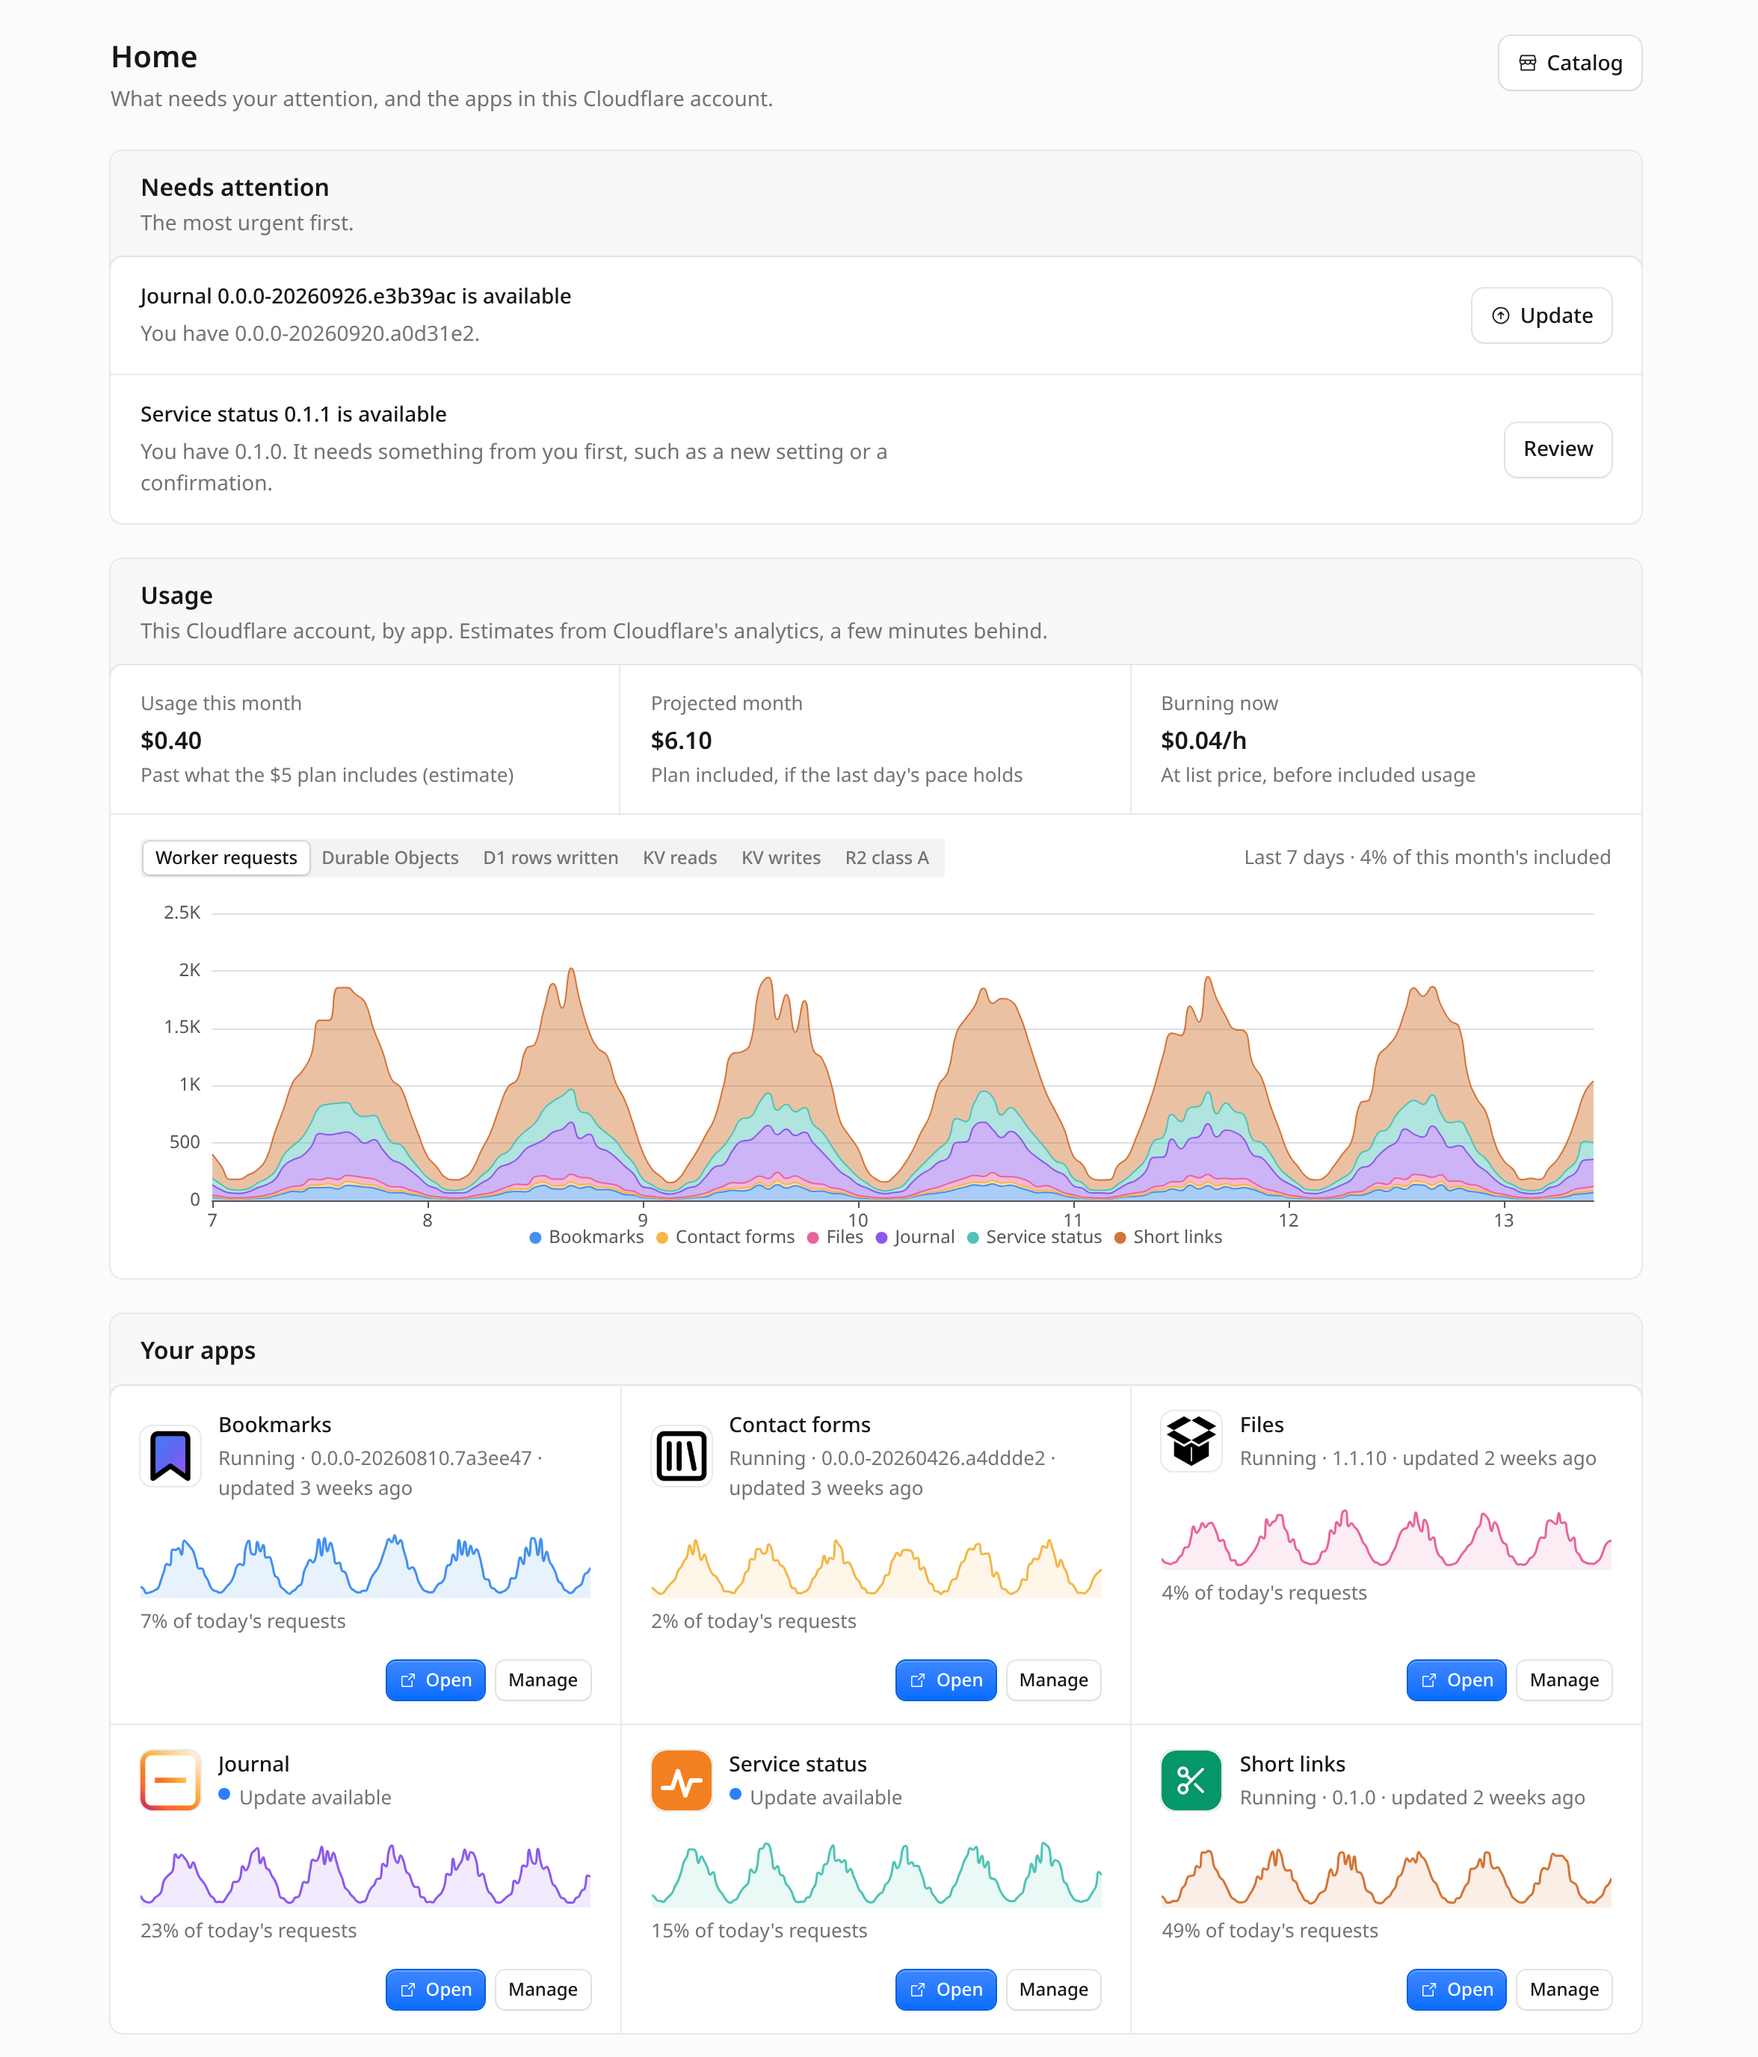
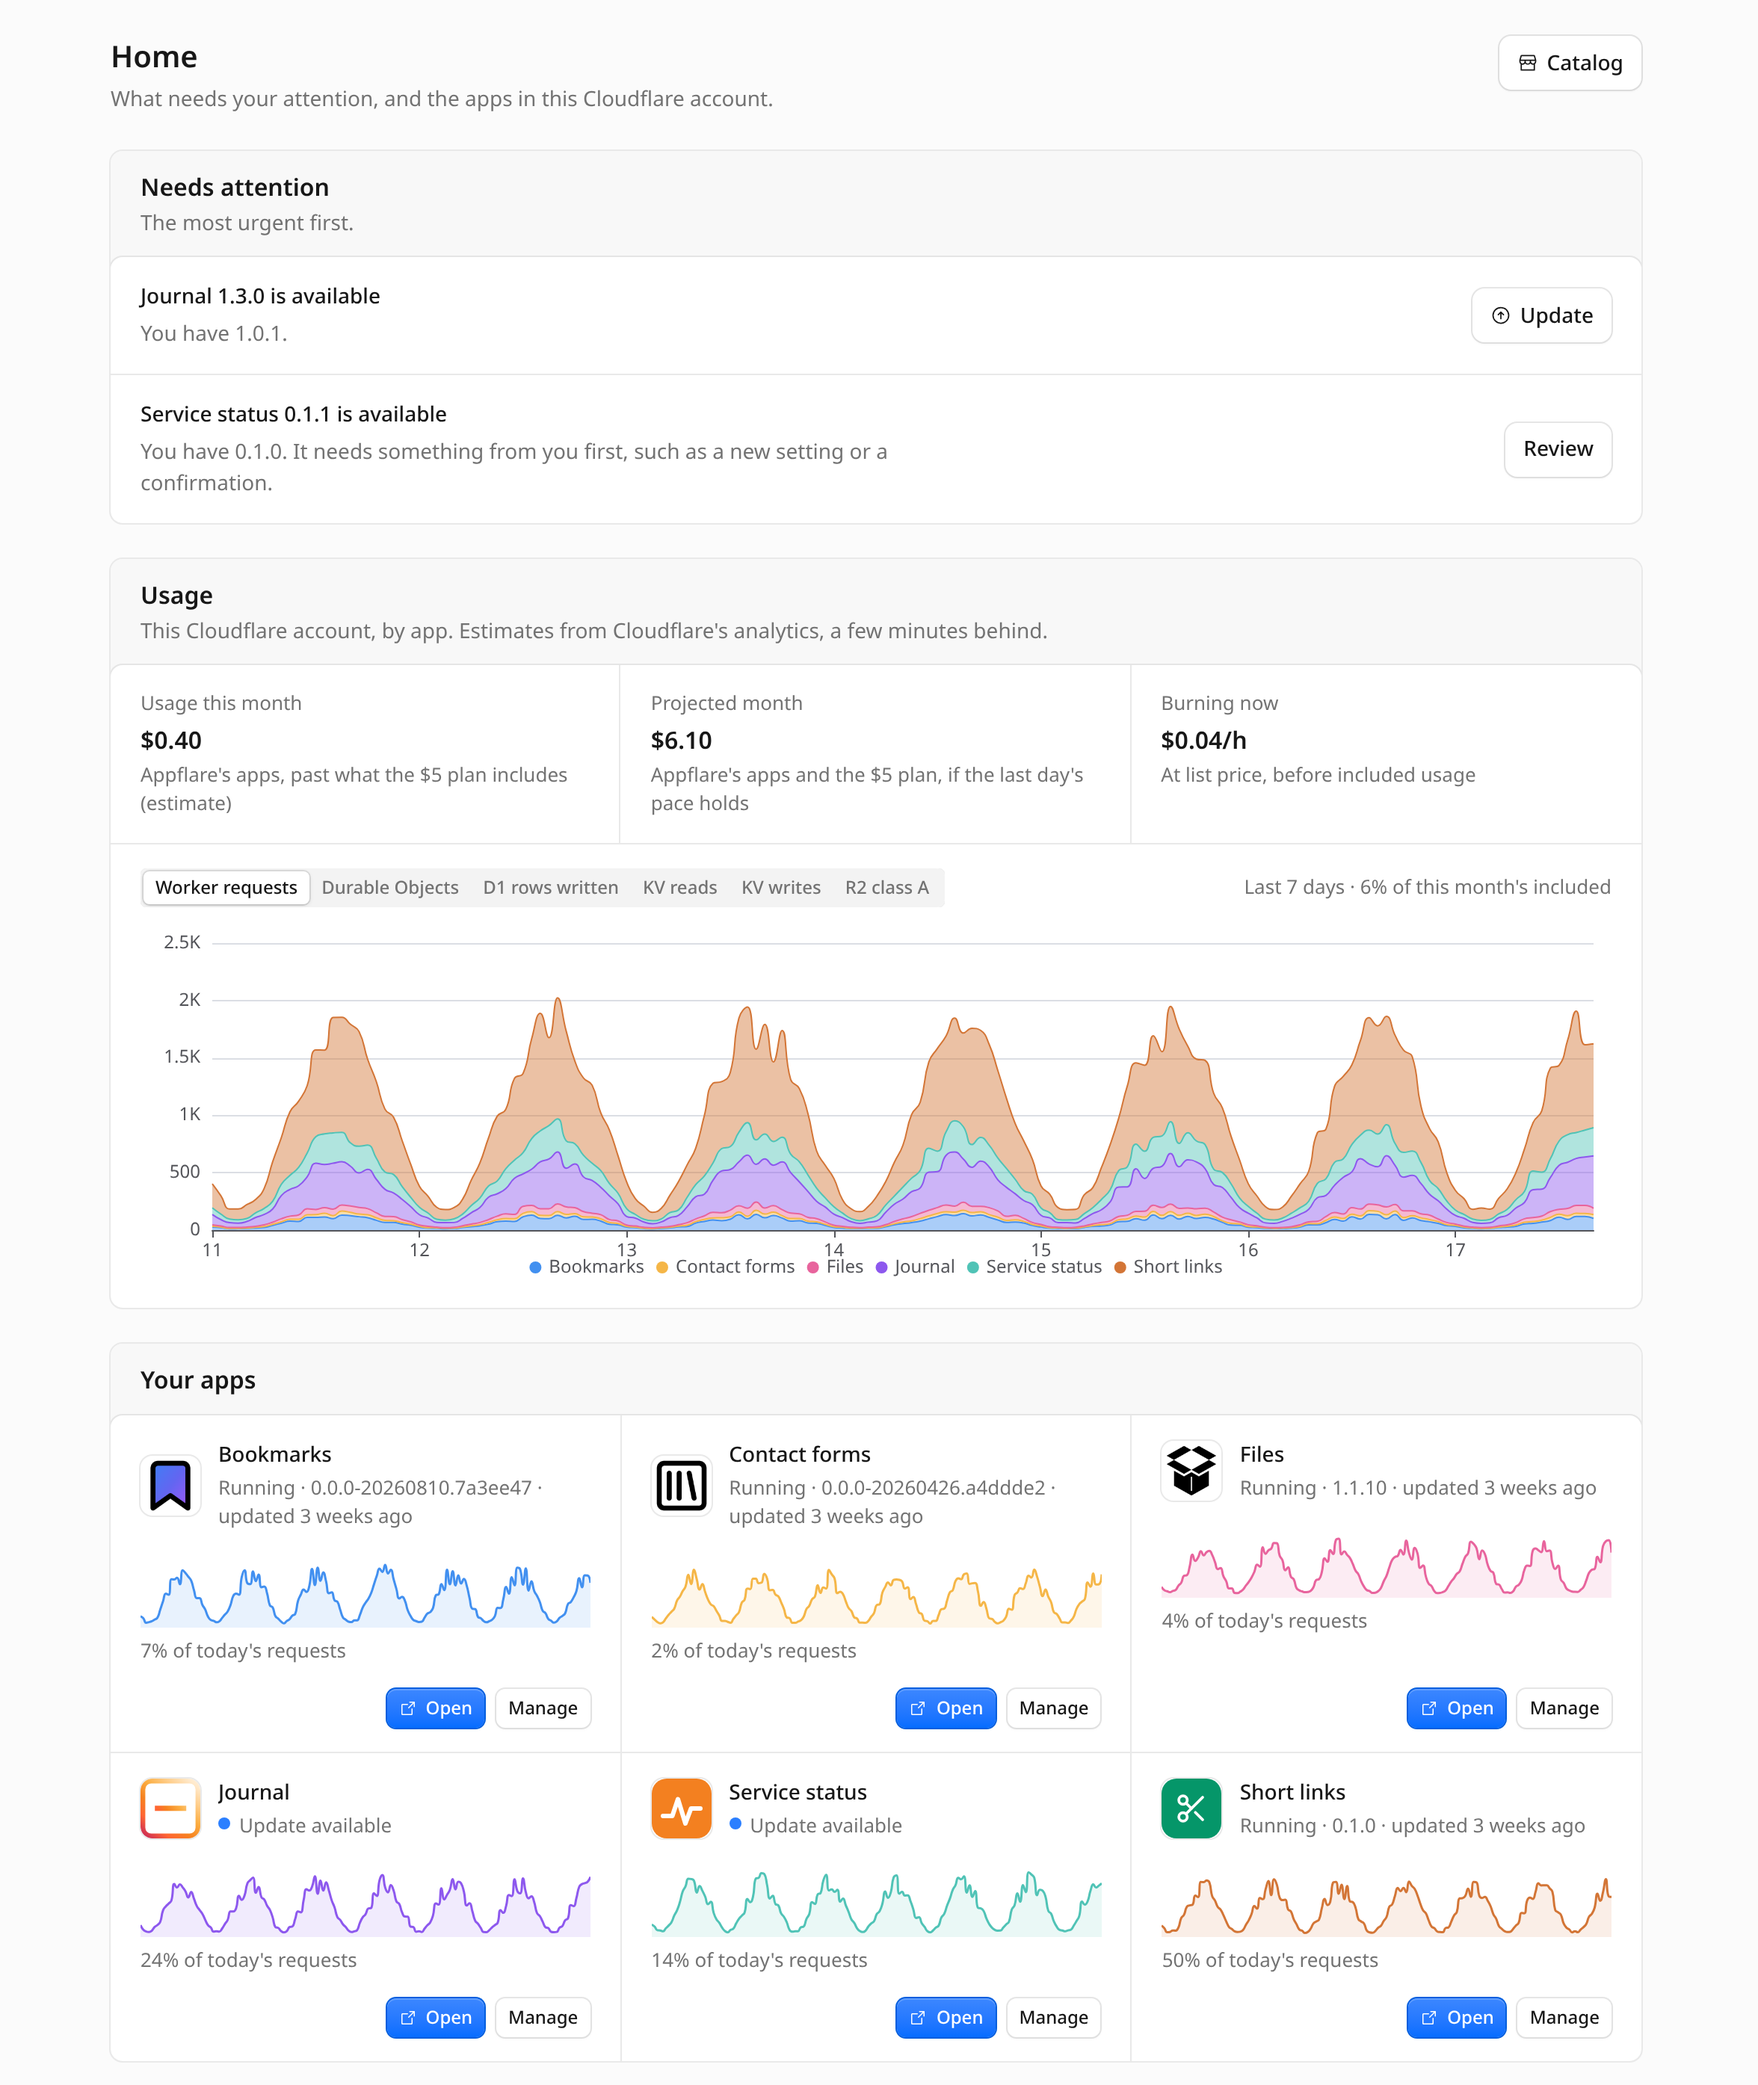
docs: show EmDash 1.3.0 in the screenshots (#91)

diff --git a/apps/manager/screenshots/fixtures/data.ts b/apps/manager/screenshots/fixtures/data.ts
@@ -99,8 +99,7 @@ const apps = selected.map((slug, index) => {
     label: names[slug],
     workerName,
     status: "installed",
-    version:
-      slug === "emdash" ? "0.0.0-20260920.a0d31e2" : slug === "statusbeam" ? "0.1.0" : app.version,
+    version: slug === "emdash" ? "1.0.1" : slug === "statusbeam" ? "0.1.0" : app.version,
     latestVersion: app.version,
     updateAvailable: slug === "emdash" || slug === "statusbeam",
     reinstallNeeded: false,
@@ -218,10 +217,20 @@ const popularityBySlug: Record<string, { stars: number; installs: number }> = {
 const moduleBytesBySlug: Record<string, number> = {
   cloudmark: 79_000,
   cut: 91_000,
-  emdash: 186_000,
+  // The modules of the emdash@1.3.0 release.
+  emdash: 19_497_841,
   formzero: 102_000,
   "r2-explorer": 132_000,
   statusbeam: 144_000,
+};
+/** The resource kind an install creates for each service, by catalog service id. */
+const createdKinds: Record<string, string> = {
+  kv: "kv",
+  d1: "d1",
+  r2: "r2",
+  queues: "queue",
+  workflows: "workflow",
+  cron: "cron",
 };
 const catalogApps = catalogIndex.apps.map((app) => ({
   ...app,
@@ -316,7 +325,11 @@ function detail(slug: string) {
     source,
     images: media(app),
     popularity: popularityBySlug[app.slug],
-    creates: app.services.map((kind) => ({ kind, binding: kind.toUpperCase() })),
+    // Only the services an install creates a resource for; a binding such as
+    // Images or Workers AI adds nothing to the account.
+    creates: app.services
+      .flatMap((service) => createdKinds[service] ?? [])
+      .map((kind) => ({ kind, binding: kind.toUpperCase() })),
     durableObjects: [],
     error: null,
     installs: catalogApps.find((entry) => entry.slug === app.slug)?.installs ?? [],

diff --git a/apps/docs/src/components/landing/landing-page.tsx b/apps/docs/src/components/landing/landing-page.tsx
@@ -159,7 +159,7 @@ function Hero({ data }: { data: LandingData }) {
           srcSet={landingHomeSrcSet}
           // The column's width: 1000px once the page is 72rem wide, else the viewport less its padding.
           sizes="(min-width: 1152px) 1000px, (min-width: 1024px) calc(100vw - 152px), (min-width: 768px) calc(100vw - 48px), calc(100vw - 32px)"
-          alt="Appflare's Home: the sidebar with the apps installed, two updates that need attention, and six installed apps"
+          alt="Appflare's Home: the sidebar with the apps installed, two updates that need attention, and the account's usage by app"
           width={2880}
           height={1800}
           eager

diff --git a/apps/docs/src/og/base.tsx b/apps/docs/src/og/base.tsx
@@ -445,9 +445,9 @@ export interface Crop {
 
 /**
  * The manager's Home, cropped to the "Your apps" list: at 0.8 of the
- * 2352x2752 screenshot the tiles stay readable at half size.
+ * 2352x2790 screenshot the tiles stay readable at half size.
  */
-export const YOUR_APPS_CROP: Crop = { scale: 0.8, x: 84, y: 1404 };
+export const YOUR_APPS_CROP: Crop = { scale: 0.8, x: 84, y: 1434 };
 
 /** A browser-like window, placed absolutely (often running off the edges), showing a crop of a picture. */
 export function Window({

diff --git a/apps/docs/src/og/plugin.test.ts b/apps/docs/src/og/plugin.test.ts
@@ -7,7 +7,7 @@ describe("the docs' screenshots for the cards", () => {
     const pictures = readDocsScreenshots();
     expect(pictures["/screenshots/home-dashboard.png"]).toMatchObject({
       width: 2352,
-      height: 2752,
+      height: 2790,
     });
     for (const [path, picture] of Object.entries(pictures)) {
       expect(path).toMatch(/^\/screenshots\/[\w.-]+\.png$/);

diff --git a/apps/manager/screenshots/README.md b/apps/manager/screenshots/README.md
@@ -2,6 +2,6 @@
 
 Run `node apps/manager/screenshots/shoot.mjs` from the repository root. The command starts its own Vite server, opens the real manager routes in headless Chromium, and writes the PNGs to `apps/docs/public/screenshots/`. It tries `$CHROMIUM` first, then `chromium-browser`, `chromium`, `google-chrome`, and the usual macOS Chrome path. Set `CHROMIUM` to an executable path if none is found. ImageMagick's `magick` command must be on `PATH`. No account, token, database, or Worker is used.
 
-The Vite entry uses the manager's router and components. `route-tree.ts` includes the pages used in the docs and leaves out API routes. The Vite plugin replaces `*.functions.ts` calls with `fixtures/data.ts` and serves the catalog images from `fixtures/`. When a page adds a server call, add its fixture result there. A picture of a page in another state names a fixture variant in its path (`/settings/domains?fixture=address-on-domain`), which `fixtures/data.ts` reads once when the page loads. `setup-address-step.png` walks through the setup wizard from the owner step: the Vite server answers Better Auth's sign-in endpoint with a stand-in, and the page's own address (localhost) is replaced with the fixture's workers.dev address before the capture. The saved catalog entries and images came from the public Appflare catalog on 2026-09-28. Fixture names and domains are invented, with `example.com` addresses.
+The Vite entry uses the manager's router and components. `route-tree.ts` includes the pages used in the docs and leaves out API routes. The Vite plugin replaces `*.functions.ts` calls with `fixtures/data.ts` and serves the catalog images from `fixtures/`. When a page adds a server call, add its fixture result there. A picture of a page in another state names a fixture variant in its path (`/settings/domains?fixture=address-on-domain`), which `fixtures/data.ts` reads once when the page loads. `setup-address-step.png` walks through the setup wizard from the owner step: the Vite server answers Better Auth's sign-in endpoint with a stand-in, and the page's own address (localhost) is replaced with the fixture's workers.dev address before the capture. The saved catalog entries and images came from the public Appflare catalog on 2026-09-28, and EmDash's entry and manifest from its 1.3.0 release on 2026-10-17. Fixture names and domains are invented, with `example.com` addresses.
 
 The script captures a 1440 × 900 desktop viewport at device scale 2, with taller viewports where a whole form needs one, plus one 390 × 800 phone view at device scale 2, with times in UTC, the zone usage periods reset in. A shot of a chart waits for its drawing to finish. It crops each page to the relevant content without resizing, so every output remains at device scale 2. Desktop crops leave out the sidebar, except `landing-home.png`, the front page's picture of the whole manager. Set `SHOT` to one name, or several separated by commas (`SHOT=landing-home node apps/manager/screenshots/shoot.mjs`), to capture only those pictures, and `SHOTS_OUT` to a directory to write them there instead of the docs. Run `pnpm --filter @appflare/manager screenshots:check` to check the harness. Check every new PNG before using it in the docs.
